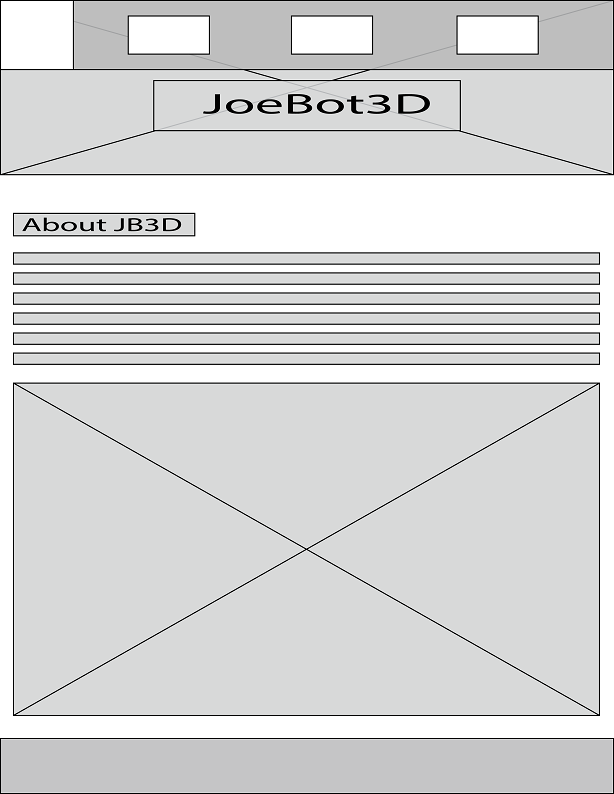
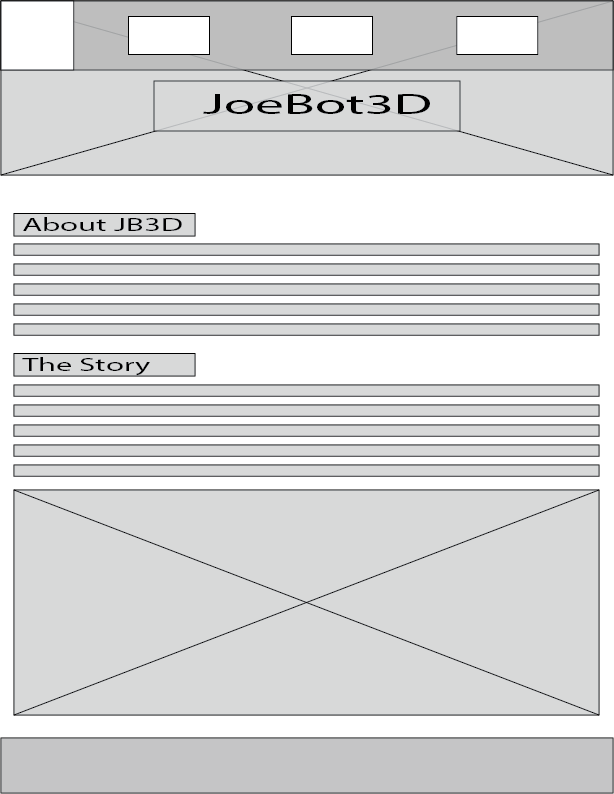
add css to JoeBot3D home page

diff --git a/joebot3d/index.html b/joebot3d/index.html
@@ -5,67 +5,76 @@
     <meta charset="UTF-8">
     <meta http-equiv="X-UA-Compatible" content="IE=edge">
     <meta name="viewport" content="width=device-width, initial-scale=1.0">
+    <link rel="stylesheet" href="styles/style.css">
     <title>Home | JoeBot3D</title>
 </head>
 
 <body>
-    <header>
-        <a href="index.html">
-            <img src="images/JoeBot3D_Robot_Logo_small.png" alt="Robot Logo">
-        </a>
-        <nav>
-            <a href="index.html">Home</a>
-            <a href="products.html">Products</a>
-            <a href="contactus.html">Contact Us</a>
-        </nav>
-    </header>
+    <div id="content">
+        <header>
 
-    <div>
-        <div>
-            <img src="images/JoeBot3D_Banner.jpg" alt="Robot logo on a 3D printer">
-        </div>
-        <div>
+            <a class="nav-logo" href="index.html">
+                <img  src="images/JoeBot3D_Robot_Logo_small.png" alt="Robot Logo" width="100">
+            </a>
+
+            <nav>
+                <a href="index.html">Home</a>
+                <a href="products.html">Products</a>
+                <a href="contactus.html">Contact Us</a>
+            </nav>
+        </header>
+        <div class="hero">
+            <img class="hero-img" src="images/JoeBot3D_Banner.jpg" alt="Robot logo on a 3D printer">
             <h1>JoeBot3D</h1>
         </div>
+        <main>
+            <section>
+                <h2>About JoeBot3D</h2>
+                <p>
+                    Through the power and magic of 3D printing technology, JoeBot3D makes cool, useful products, such as
+                    Wi-Fi QR code placards, lithophanes, and light switch plates for your home. Wi-Fi QR codes are used to
+                    easily connect friends to your home Wi-Fi; the placard makes it look good in your home. Lithophanes are
+                    3D pictures that only reveal the image in front of a light. Light switch plates are a fun way to make it
+                    easy to tell if you're turning on the sink light or the garbage disposal.
+                </p>
+                <h2>The Story</h2>
+                <p>
+                    One upon a time, a very long time ago, I wanted to be a 3D animator. Fortunately, there was a great 3D modeling and animation program at the college in the small town where I grew up. So I enrolled in classes and I loved every minute of it. I made glorious 3D creations, and asked my family members for critiques. Usually they were pretty impressed with what I was able to do. I was very proud of my work.
+                </p>
+                <p>
+                    There came a point where I decided to serve a as a missionary for the Lord. After two years, I came home. My heart and my mind had changed. I had just spent two years doing the most meaningful work I had ever done. Now, being an animator for Hollywood just didn't seem very meaningful to me anymore.
+                </p>
+                <p>
+                    Some time after my mission, I got a job manufacturing parts for 3D printers. It was really interesting. Eventually I obtained a 3D printer for myself. I was able to use the 3D modeling skills I had learned before my mission for 3D printing.
+                </p>
+                <p>
+                    I love seeing something that I've created on the computer being printed on the 3D printed into a tangible result. I'm glad I get to share this gift with the world.
+                </p>
+            </section>
+            <div>
+                <img class="robot-captcha" src="images/I_am_a_robot.jpg" alt="A robot is a robot">
+            </div>
+        </main>
+        
+        <footer>
+            <h3>JoeBot3D &copy; 2022 - Joe Olsen</h3>
+            <h3><a href="site-plan.html">Site Plan</a></h3>
+            <h3><a href="index.html">Home</a></h3>
+            <h3><a href="products.html">Products</a></h3>
+            <h3><a href="contactus.html">Contact Us</a></h3>
+            <div class="social">
+                <a href="https://facebook.com" target="_blank">
+                    <img src="images/facebook.png" alt="fb icon">
+                </a>
+                <a href="https://youtube.com" target="_blank">
+                    <img src="images/twitter.png" alt="twitter icon">
+                </a>
+                <a href="https://instagram.com" target="_blank">
+                    <img src="images/instagram.png" alt="instagram icon">
+                </a>
+            </div>
+        </footer>
     </div>
-
-    <main>
-        <section>
-            <h2>About JoeBot3D</h2>
-            <p>
-                Through the power and magic of 3D printing technology, JoeBot3D makes cool, useful products, such as
-                Wi-Fi QR code placards, lithophanes, and light switch plates for your home. Wi-Fi QR codes are used to
-                easily connect friends to your home Wi-Fi; the placard makes it look good in your home. Lithophanes are
-                3D pictures that only reveal the image in front of a light. Light switch plates are a fun way to make it
-                easy to tell if you're turning on the sink light or the garbage disposal.
-            </p>
-        </section>
-
-        <div>
-            <img src="images/I am a robot.jpg" alt="A robot is a robot">
-        </div>
-    </main>
-    
-    <footer>
-        <h3>JoeBot3D &copy; 2022 - Joe Olsen</h3>
-        <h3><a href="site-plan.html">Site Plan</a></h3>
-        <h3><a href="index.html">Home</a></h3>
-        <h3><a href="products.html">Products</a></h3>
-        <h3><a href="contactus.html">Contact Us</a></h3>
-        <div class="social">
-            <a href="https://facebook.com" target="_blank">
-                <img src="images/facebook.png" alt="fb icon">
-            </a>
-            <a href="https://youtube.com" target="_blank">
-                <img src="images/twitter.png" alt="twitter icon">
-            </a>
-            <a href="https://instagram.com" target="_blank">
-                <img src="images/instagram.png" alt="instagram icon">
-            </a>
-        </div>
-    </footer>
-
-
 </body>
 
 </html>

diff --git a/joebot3d/styles/style.css b/joebot3d/styles/style.css
@@ -1,0 +1,133 @@
+@import url('https://fonts.googleapis.com/css2?family=Blinker&display=swap');
+@import url('https://fonts.googleapis.com/css2?family=Syne+Mono&display=swap');
+
+:root {
+    --primary-color: #2b97b5;
+    --primary-alpha: #2b97b54d;
+    --secondary-color: #fff7e4;
+    --secondary-alpha:#fff7e44d;
+    --accent1-color: #2bb673;
+    --accent2-color: #343434;
+
+    --radius:20px;
+
+    --header-font:"Syne Mono";
+
+    --nav-height:120px;
+}
+
+html, body {
+    margin:0;
+    padding:0;
+}
+
+body {
+    font-family: Blinker, Verdana, sans-serif;
+    font-size:1.5em;
+    background-color:var(--secondary-color)
+}
+
+h1 {
+    font-family: var(--header-font), "Comic Sans", fantasy;
+    font-size: 2.5em;
+}
+
+h2 {
+    font-family: var(--header-font), "Comic Sans", fantasy;
+    font-size: 1.5em;
+    color: var(--primary-color);
+    text-shadow: 0 0 2px var(--accent2-color);
+}
+
+h1, nav a {
+    color: var(--accent2-color);
+    text-shadow: 0 0 4px var(--secondary-color)
+}
+
+#content {
+    margin: 0 auto;
+    width:90%;
+    max-width: 1600px;
+}
+
+header {
+    height: var(--nav-height);
+    display: grid;
+    grid-template-columns: var(--nav-height) auto;
+    background-color:var(--secondary-alpha);
+    align-items:center;
+}
+
+ .nav-logo {
+    justify-self: stretch;
+    align-self: stretch;
+    text-align:center;
+}
+
+.nav-logo img {
+    margin-top:10%;
+}
+
+nav {
+    display:flex;
+    justify-content: space-around;
+    align-content:space-around;
+    height:100%;
+}
+
+nav a {
+    text-align: center;
+    text-decoration: none;
+    font-size:1.2em;
+    padding: 35px;
+    
+}
+
+nav a:hover, .nav-logo:hover {
+    background-color: var(--primary-alpha)
+}
+
+.hero {
+    display:grid;
+    grid-template-rows: var(--nav-height) 1fr;
+    margin-top: calc(var(--nav-height) * -1);
+    align-items:center;
+}
+
+.hero-img {
+    grid-row: 1/3;
+    grid-column:1/2;
+    width: 100%;
+    border-radius: 0 0 var(--radius) var(--radius);
+    z-index:-1;
+}
+
+.hero h1 {
+    grid-column:1/2;
+    grid-row: 2/3;
+    text-align:center;
+}
+
+main {
+    padding: 0 2%;
+}
+
+.robot-captcha {
+    width:100%;
+    border-radius: var(--radius);
+}
+
+footer {
+    background-color: var(--primary-alpha);
+    padding: 25px 50px;
+    margin-top: 50px;
+    display: flex;
+    justify-content: space-around;
+    align-items: center;
+    border-radius: var(--radius) var(--radius) 0 0;
+}
+
+footer .social img {
+    margin-top: 15px;
+    border-radius: 35%;
+}

diff --git a/joebot3d/contactus.html b/joebot3d/contactus.html
@@ -5,6 +5,7 @@
     <meta charset="UTF-8">
     <meta http-equiv="X-UA-Compatible" content="IE=edge">
     <meta name="viewport" content="width=device-width, initial-scale=1.0">
+    <link rel="stylesheet" href="styles/style.css">
     <title>Contact Us | JoeBot3D</title>
 </head>
 

diff --git a/joebot3d/products.html b/joebot3d/products.html
@@ -5,6 +5,7 @@
     <meta charset="UTF-8">
     <meta http-equiv="X-UA-Compatible" content="IE=edge">
     <meta name="viewport" content="width=device-width, initial-scale=1.0">
+    <link rel="stylesheet" href="styles/style.css">
     <title>Products | JoeBot3D</title>
 </head>
 
